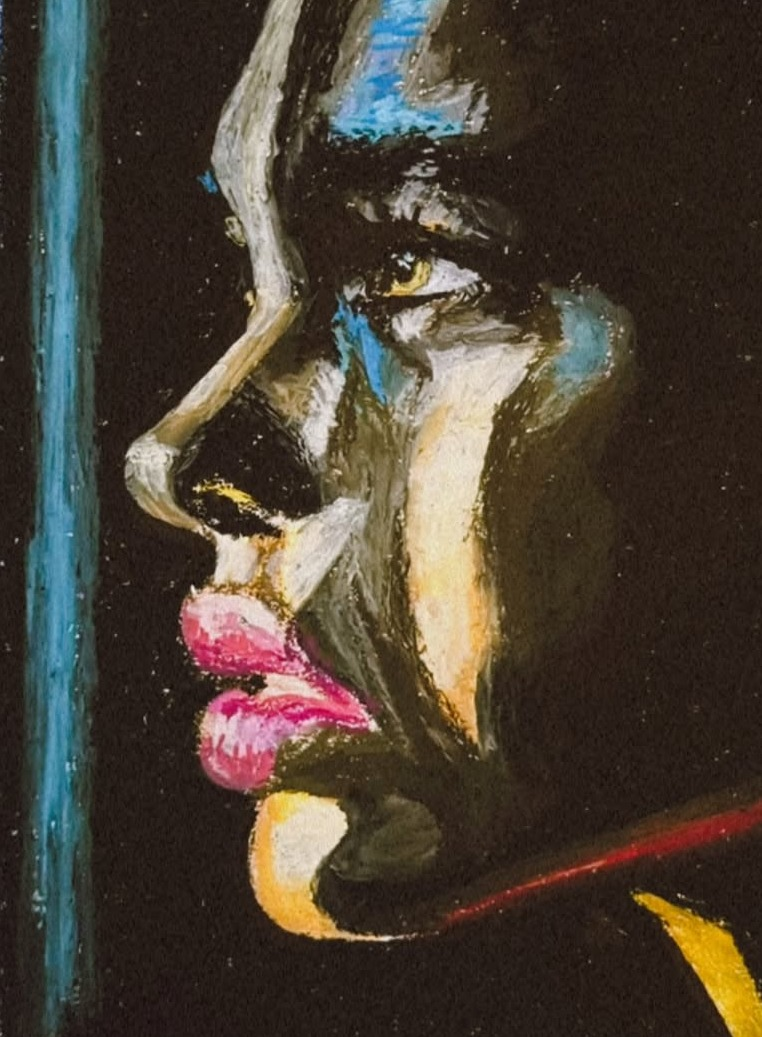
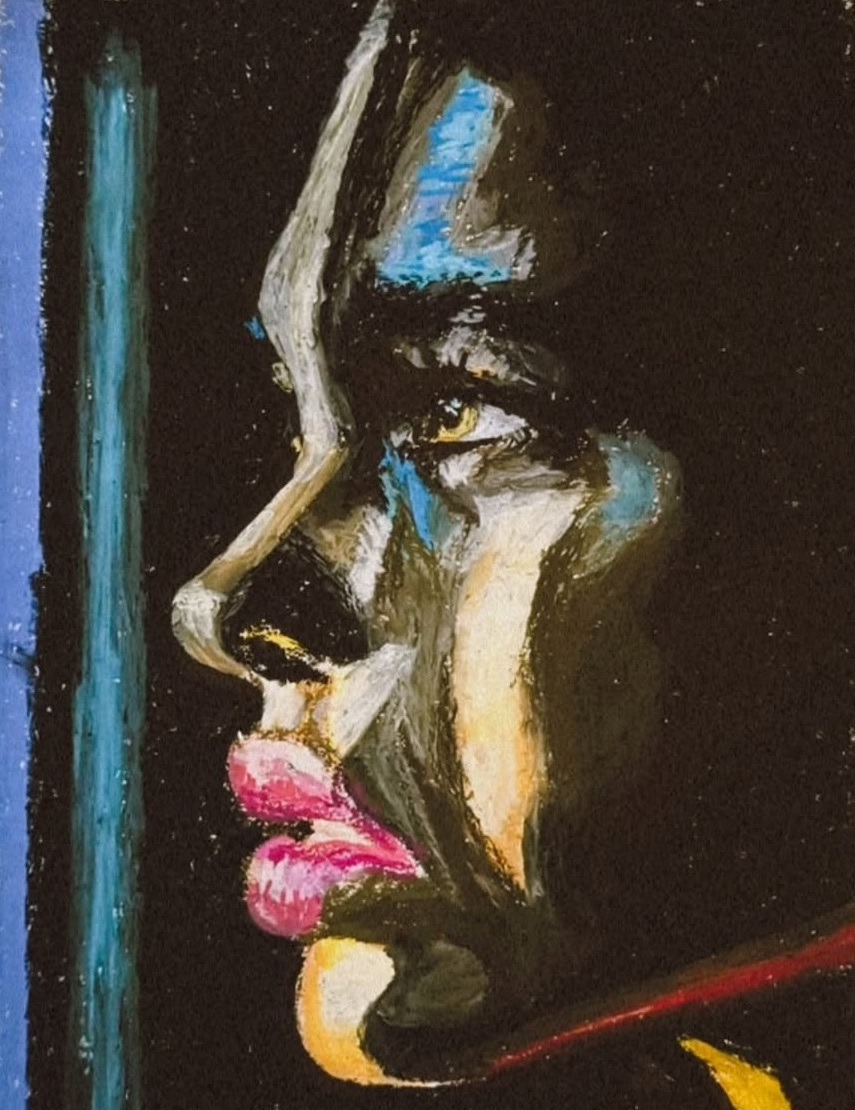
Fix Colorée & Skintones crops; hero = Window light
- Recrop Colorée and Skintones to full portraits
- Set hero/OG to black-and-yellow window portrait
- Use object-fit contain so shop/modal no longer over-zoom
- Lead shop grid with Window light

diff --git a/main.js b/main.js
@@ -1,12 +1,12 @@
 (() => {
   const catalog = [
     {
-      id: "pink-blue",
-      file: "piece-pink-blue.jpg",
-      title: "Pastel colors",
+      id: "window",
+      file: "piece-window.jpg",
+      title: "Window light",
       subtitle: "Oil pastel",
       price: 180,
-      blurb: "Yellow, pink, and blue light across a closed gaze. One of one.",
+      blurb: "Looking out — black, yellow, and window blue.",
     },
     {
       id: "coloree",
@@ -17,12 +17,28 @@
       blurb: "Fan, blush, and blue lid — a theatrical study in color.",
     },
     {
+      id: "skintones",
+      file: "piece-skintones.jpg",
+      title: "Skintones",
+      subtitle: "Oil pastel",
+      price: 160,
+      blurb: "A laughing study in light and city night.",
+    },
+    {
+      id: "pink-blue",
+      file: "piece-pink-blue.jpg",
+      title: "Pastel colors",
+      subtitle: "Oil pastel",
+      price: 180,
+      blurb: "Yellow, pink, and blue across a closed gaze.",
+    },
+    {
       id: "magenta",
       file: "piece-magenta.jpg",
       title: "Magenta light",
       subtitle: "Oil pastel",
       price: 160,
-      blurb: "Hot magenta against cool blue shadow. Sketchbook original.",
+      blurb: "Hot magenta against cool blue shadow.",
     },
     {
       id: "warm",
@@ -30,7 +46,7 @@
       title: "Warm light",
       subtitle: "Oil pastel",
       price: 160,
-      blurb: "Split light in gold and cobalt. Quiet, closed eyes.",
+      blurb: "Split light in gold and cobalt.",
     },
     {
       id: "headwrap",
@@ -38,7 +54,7 @@
       title: "Headwrap",
       subtitle: "Oil pastel · 8×10",
       price: 220,
-      blurb: "8×10 oil pastel portrait with architectural backdrop.",
+      blurb: "8×10 oil pastel with architectural backdrop.",
     },
     {
       id: "outside",
@@ -55,14 +71,6 @@
       subtitle: "Acrylic",
       price: 200,
       blurb: "Hard split of cool blue and warm yellow.",
-    },
-    {
-      id: "window",
-      file: "piece-window.jpg",
-      title: "Window light",
-      subtitle: "Oil pastel",
-      price: 180,
-      blurb: "Soft daylight falling through a window.",
     },
     {
       id: "cosmic",
@@ -87,14 +95,6 @@
       subtitle: "Oil pastel",
       price: 160,
       blurb: "Light held in the front plane of the portrait.",
-    },
-    {
-      id: "skintones",
-      file: "piece-skintones.jpg",
-      title: "Skintones",
-      subtitle: "Oil pastel",
-      price: 160,
-      blurb: "A study toward natural skintones and light.",
     },
   ];
 

diff --git a/styles.css b/styles.css
@@ -286,20 +286,22 @@ a {
 
 .card__frame {
   overflow: hidden;
-  background: var(--ink);
+  background: #050504;
   aspect-ratio: 4 / 5;
+  display: grid;
+  place-items: center;
 }
 
 .card__frame img {
   width: 100%;
   height: 100%;
-  object-fit: cover;
+  object-fit: contain;
   transition: transform 0.8s var(--ease);
 }
 
 .card:hover img,
 .card:focus-visible img {
-  transform: scale(1.035);
+  transform: scale(1.02);
 }
 
 .card__meta {
@@ -416,27 +418,33 @@ a {
 
 .sheet__media {
   margin: 0;
-  background: #000;
+  background: #050504;
   min-height: 16rem;
+  display: grid;
+  place-items: center;
 }
 
 .sheet__media img {
   width: 100%;
-  height: 100%;
-  max-height: 50vh;
-  object-fit: cover;
+  height: auto;
+  max-height: min(52vh, 28rem);
+  object-fit: contain;
 }
 
 @media (min-width: 760px) {
-  .sheet__media img {
-    max-height: none;
-    position: absolute;
-    inset: 0;
-  }
-
   .sheet__media {
     position: relative;
     min-height: 100%;
+    place-items: stretch;
+  }
+
+  .sheet__media img {
+    max-height: none;
+    height: 100%;
+    width: 100%;
+    object-fit: contain;
+    position: absolute;
+    inset: 0;
   }
 }
 

diff --git a/index.html b/index.html
@@ -45,9 +45,9 @@
           <img
             class="hero__img"
             src="assets/hero.jpg"
-            alt="Pastel colors — oil pastel portrait available for sale"
-            width="691"
-            height="1036"
+            alt="Window light — oil pastel portrait available for sale"
+            width="865"
+            height="1124"
             fetchpriority="high"
           />
         </div>
